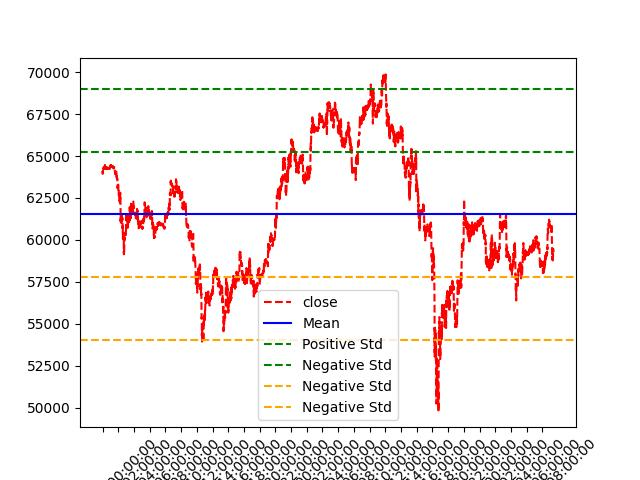
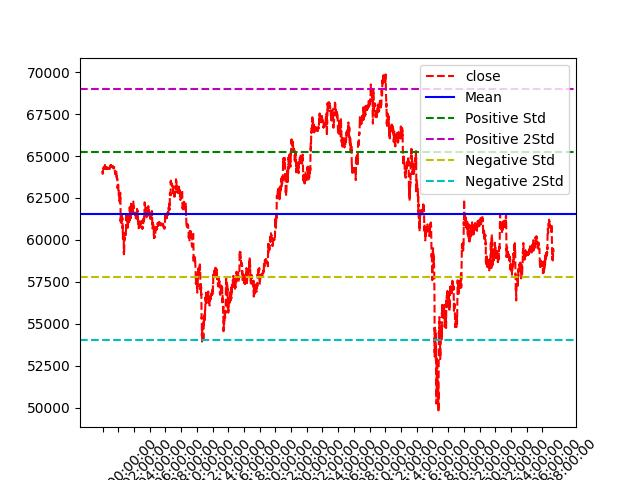
The one and only MAMAD

diff --git a/Future/btc_behavior.py b/Future/btc_behavior.py
@@ -18,10 +18,10 @@ std2_n = mean_btc - (std_btc * 2)
 
 plt.plot(df.index, df["Close"], "r--", label="close")
 plt.axhline(mean_btc, color='blue', linestyle='-', label="Mean")
-plt.axhline(std_p, color='green', linestyle='--', label="Positive Std")
-plt.axhline(std2_p, color='green', linestyle='--', label="Negative Std")
-plt.axhline(std_n, color='orange', linestyle='--', label="Negative Std")
-plt.axhline(std2_n, color='orange', linestyle='--', label="Negative Std")
+plt.axhline(std_p, color='g', linestyle='--', label="Positive Std")
+plt.axhline(std2_p, color='m', linestyle='--', label="Positive 2Std")
+plt.axhline(std_n, color='y', linestyle='--', label="Negative Std")
+plt.axhline(std2_n, color='c', linestyle='--', label="Negative 2Std")
 
 plt.xticks(ticks=df["Date"].iloc[::200], rotation=45)
 plt.legend()

diff --git a/Future/min_max.py b/Future/min_max.py
@@ -1,0 +1,25 @@
+import pandas as pd
+import matplotlib.pyplot as plt
+import scipy.signal as sc
+
+print("Reading Data...")
+df = pd.read_csv("BTC_Price_15m.csv", index_col="Datetime")
+df["Date"] = df.index
+print("Done")
+print("Plotting...")
+
+peaks, no = sc.find_peaks(df["Close"])
+troughs, _ = sc.find_peaks(-df["Close"])
+
+
+plt.plot(df["Date"], df["Close"], "blue", label="Close price")
+plt.plot(df["Date"].iloc[peaks+1], df["Close"].iloc[peaks+1],"r--", label="Peaks")
+plt.xticks(ticks=df["Date"].iloc[::200], rotation=45)
+plt.plot(df["Date"].iloc[troughs+1], df["Close"].iloc[troughs+1], "g--", label="Troughs")
+plt.legend()
+plt.grid()
+print("Done")
+plt.savefig("BTC_Min_Max.jpg")
+plt.show()
+
+

diff --git a/Future/make_data.py b/Future/make_data.py
@@ -1,0 +1,13 @@
+import yfinance as yf
+
+print("Downloading Data ...")
+print("Please Wait")
+
+df = yf.download("BTC-USD", period="60d", interval="15m")
+
+if not df.empty:
+    df.to_csv("BTC_Price_15m.csv")
+    print("It's Done; Enjoy!")
+else:
+    print("Check Your Connection please!")
+
